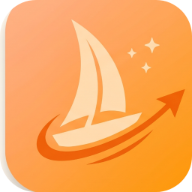
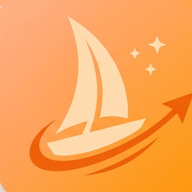
2026.10.22a — ไอคอนหน้าจอโฮมเต็มกรอบ ไม่มีขอบขาว
apple-touch-icon / icon-192 เดิมเป็นมุมมนโปร่งใส + แถบสีอ่อนขอบซ้าย
iOS ไม่ตัดให้ จึงเห็นขอบ — สร้างใหม่จากต้นฉบับเดียวกับแอป iOS แบบเต็มกรอบ

[skip ci]

Claude-Session: https://claude.ai/code/session_014tkKX5YffbtqhG7RQmxJej

diff --git a/app/sw.js b/app/sw.js
@@ -1,6 +1,6 @@
 // where to next? — service worker
 // เป้าหมาย: ใช้งานได้เต็มรูปแบบตอนไม่มีเน็ต + ไม่ค้างตอนสัญญาณอ่อน (มีเน็ตแต่ช้ามาก)
-const CACHE = 'wtn-2026.10.16c';
+const CACHE = 'wtn-2026.10.22a';
 const MEDIA = 'wtn-media-v1'; // รูปจากคลาวด์ — เก็บถาวร ไม่ล้างตอนอัปเวอร์ชัน
 const NET_TIMEOUT = 2500; // สัญญาณอ่อน: รอเน็ตเท่านี้ ไม่มาก็ใช้ของในแคชทันที
 

diff --git a/app/index.html b/app/index.html
@@ -14799,7 +14799,7 @@ class Component extends DCLogic {
       a2hsInstall: () => this.a2hsInstall(),
       a2hsLater: () => this.a2hsClose(false),
       a2hsDismiss: () => this.a2hsClose(true),
-      appVersion: '2026.10.16c',
+      appVersion: '2026.10.22a',
       kbDoneShow: !!this.state.kbUp && !this.isAndroidApp,
       kbDone: () => {
         try { const a = document.activeElement; if (a && a.blur) a.blur(); } catch (e) {}
